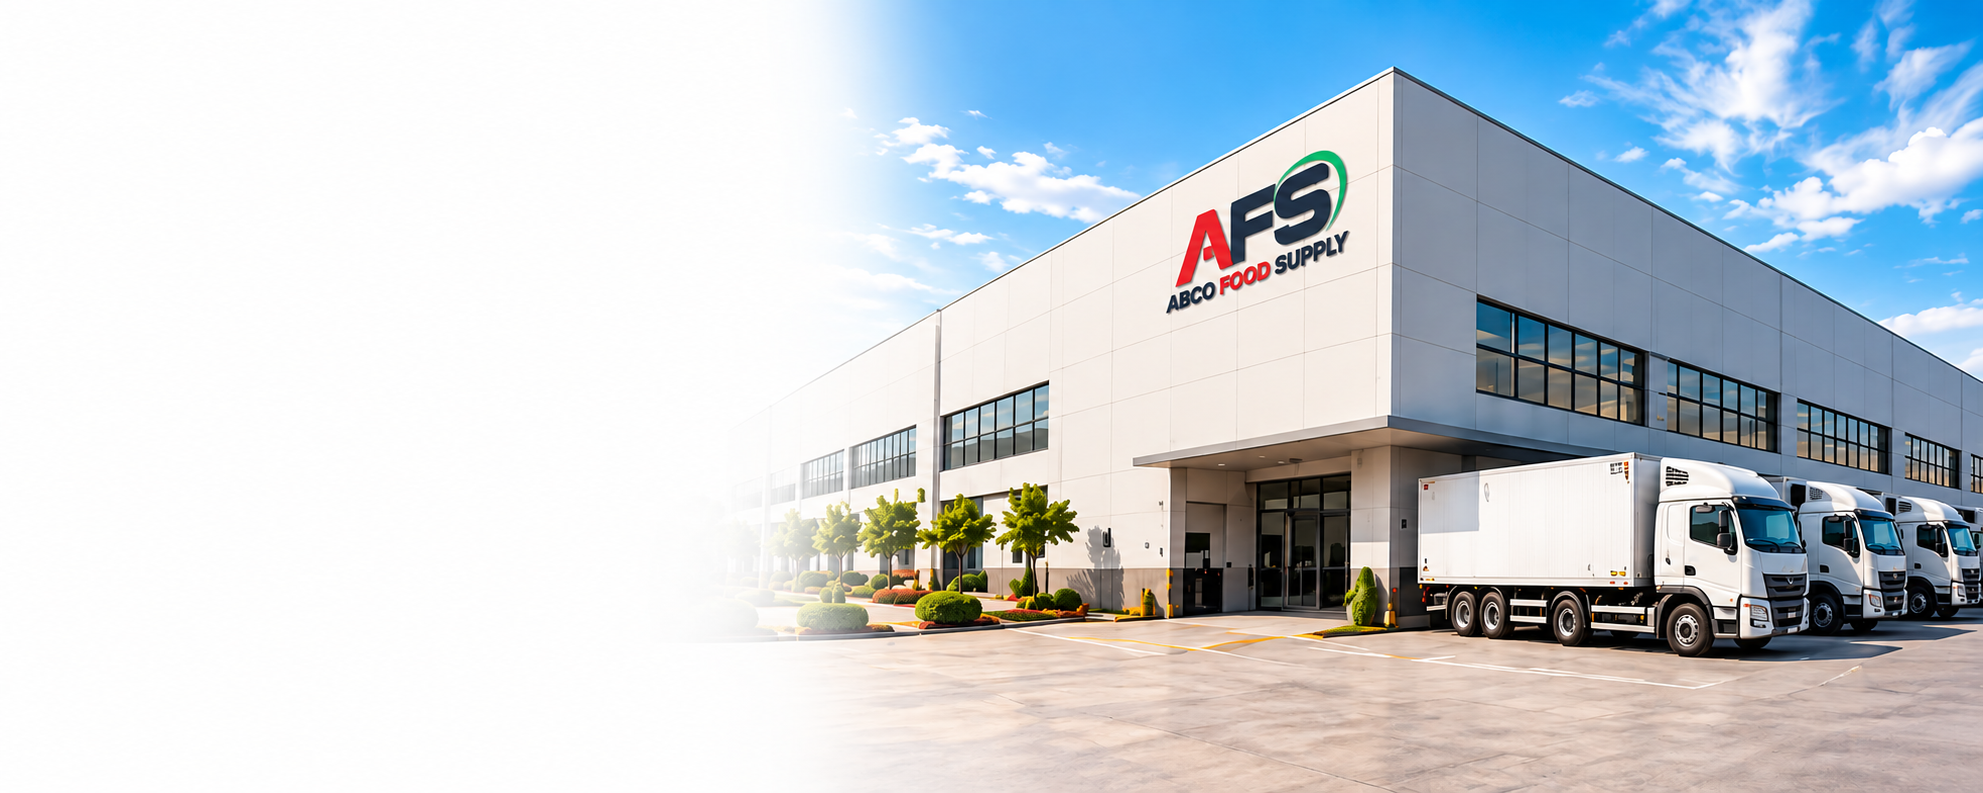
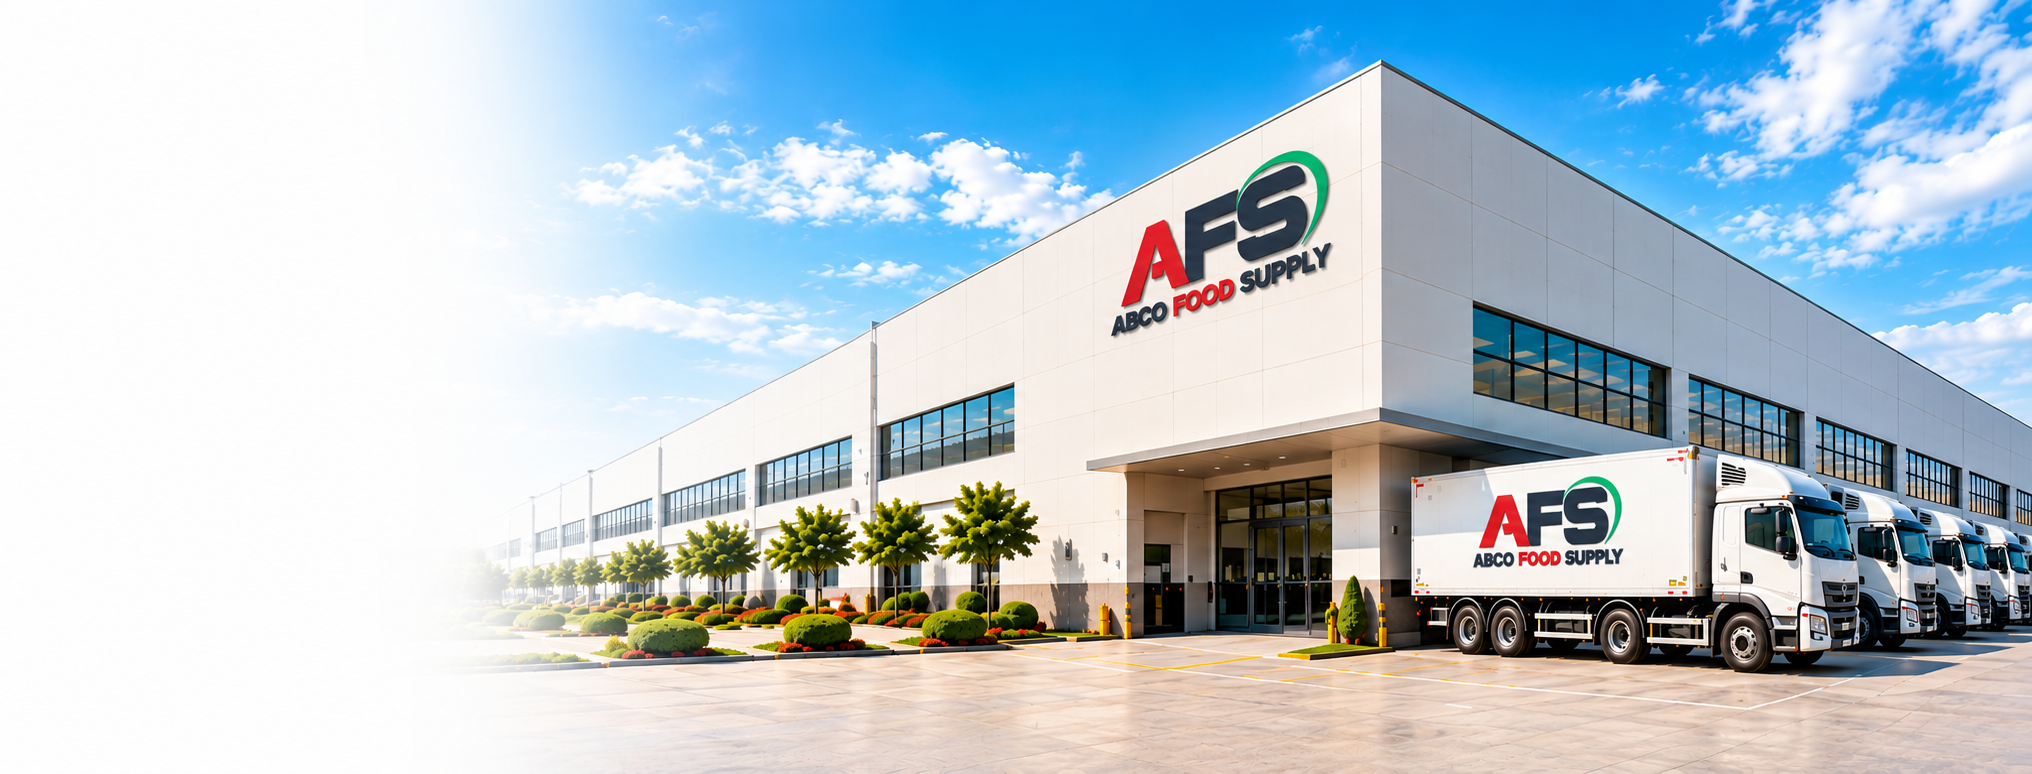
changes into the some data

diff --git a/src/lib/siteSections.ts b/src/lib/siteSections.ts
@@ -48,8 +48,6 @@ export interface SiteSections {
     primaryText: string;
     primaryLink: string;
     secondaryText: string;
-    badgeTitle: string;
-    badgeSubtitle: string;
   };
   // Home page Services header; the cards come from servicesList (items with showOnHome)
   services: { eyebrow: string; title: string; subtitle: string; buttonText: string };
@@ -71,8 +69,10 @@ export interface SiteSections {
   // Site-wide contact details (Admin → Contact & Social); used by every page
   contact: {
     phone: string;
+    phone2: string;
     whatsapp: string;
     email: string;
+    email2: string;
     address: string;
     mapAddress: string;
     hours: string;
@@ -241,13 +241,11 @@ export const SECTION_DEFAULTS: SiteSections = {
     highlights: [
       { icon: "Boxes", label: "Bulk Supply" },
       { icon: "Tag", label: "Best Prices" },
-      { icon: "ShieldCheck", label: "Quality Assured" },
+      { icon: "ShieldCheck", label: "Reliable Delivery" },
     ],
     primaryText: "Shop Now",
     primaryLink: "/products",
     secondaryText: "Request Bulk Quote",
-    badgeTitle: "Reliable Delivery",
-    badgeSubtitle: "Across Saudi Arabia",
   },
   services: {
     eyebrow: "OUR SERVICES",
@@ -276,14 +274,14 @@ export const SECTION_DEFAULTS: SiteSections = {
       tag: "PURPOSE & COMMITMENT",
       title: "Our Mission",
       text:
-        "To deliver premium food products and reliable supply solutions through trusted sourcing, efficient procurement, dependable cold-chain operations, and responsive customer service tailored to the Saudi food economy.",
+        "To deliver quality food products and reliable supply solutions through trusted sourcing, efficient procurement, dependable operations, and responsive customer service.",
       footer: "SFDA & HACCP Quality Compliant",
     },
     vision: {
       tag: "KINGDOM VISION 2030",
       title: "Our Vision",
       text:
-        "To become the most trusted and recognized food trading and supply partner across Saudi Arabia and the wider GCC, strengthening national food security through modern logistics and strategic supplier partnerships.",
+        "To become a trusted and recognized food trading and supply partner across Saudi Arabia and the wider GCC.",
       footer: "Aligned with Saudi Vision 2030",
     },
     valuesTag: "FOUNDATIONAL PILLARS",
@@ -295,6 +293,7 @@ export const SECTION_DEFAULTS: SiteSections = {
       { label: "Customer Focus", desc: "Customized client specifications" },
       { label: "Partnership", desc: "Long-term win-win collaboration" },
       { label: "Continuous Improvement", desc: "Constant technological innovation" },
+      { label: "Customer Focus", desc: "Constant technological advancement and innovation" },
     ],
     valuesFooter: "Commitment to Client Success",
   },
@@ -312,12 +311,14 @@ export const SECTION_DEFAULTS: SiteSections = {
     buttonText: "View Full Gallery",
   },
   contact: {
-    phone: "+966 57 299 5987",
+    phone: "+966 50 699 2667",
+    phone2: "+966 57 299 5987",
     whatsapp: "966572995987",
-    email: "abcofoodsupply@gmail.com",
+    email: "info@abcofoodsupply.com",
+    email2: "bdm@abcofoodsupply.com",
     address: "Jubail Industrial City, KSA",
     mapAddress: "Jubail Industrial City, Saudi Arabia",
-    hours: "Sun – Thu  8:00 AM – 6:00 PM",
+    hours: "Sun – Thu & Sat : 8:00 AM – 8:00 PM",
     hoursNote: "Arabia Standard Time (GMT+3)",
   },
   social: {

diff --git a/src/app/admin/settings/page.tsx b/src/app/admin/settings/page.tsx
@@ -15,8 +15,8 @@ export default function AdminSettingsPage() {
     companyName: "ABCO Food Supply (AFS)",
     crNumber: "2050123456",
     sfdaNumber: "SFDA-FS-2026-9918",
-    email: "abcofoodsupply@gmail.com",
-    phone: "+966 50 123 4567",
+    email: "info@acbofoodsupply.com / bdm@abcofoodsupply.com",
+    phone: "+966 50 699 2667 / +966 57 299 5987",
     address: "Jubail Industrial City, Support Services Area 1, Eastern Province, KSA",
     coldCapacity: "18,500 m³ (-18°C to +4°C)",
     fleetCount: "45 GPS Temperature-Monitored Reefer Units",
@@ -34,8 +34,8 @@ export default function AdminSettingsPage() {
               companyName: json.data.company_name || json.data.companyName || "ABCO Food Supply (AFS)",
               crNumber: json.data.cr_number || json.data.crNumber || "2050123456",
               sfdaNumber: json.data.sfda_number || json.data.sfdaNumber || "SFDA-FS-2026-9918",
-              email: json.data.email || "abcofoodsupply@gmail.com",
-              phone: json.data.phone || "+966 50 123 4567",
+              email: json.data.email || "info@acbofoodsupply.com / bdm@abcofoodsupply.com",
+              phone: json.data.phone || "+966 50 699 2667 / +966 57 299 5987",
               address: json.data.address || "Jubail Industrial City, Support Services Area 1, Eastern Province, KSA",
               coldCapacity: json.data.cold_capacity || json.data.coldCapacity || "18,500 m³ (-18°C to +4°C)",
               fleetCount: json.data.fleet_count || json.data.fleetCount || "45 GPS Temperature-Monitored Reefer Units",
@@ -133,10 +133,10 @@ export default function AdminSettingsPage() {
 
             <div>
               <label className="block text-slate-700 font-bold mb-1.5 text-xs uppercase tracking-wider">
-                Central Inquiries Email
+                Central Inquiries Emails
               </label>
               <input
-                type="email"
+                type="text"
                 value={companySettings.email}
                 onChange={(e) => setCompanySettings({ ...companySettings, email: e.target.value })}
                 className="w-full bg-slate-50 border border-slate-300 rounded-xl p-3 text-slate-900 font-medium focus:outline-none focus:ring-1 focus:ring-brand-red"

diff --git a/src/lib/siteSectionSchemas.ts b/src/lib/siteSectionSchemas.ts
@@ -123,8 +123,6 @@ export const SECTION_SCHEMAS: Record<SectionId, SectionSchema> = {
       { type: "text", key: "primaryText", label: "Red Button Text" },
       { type: "text", key: "primaryLink", label: "Red Button Link", placeholder: "/products" },
       { type: "text", key: "secondaryText", label: "White Button Text", help: "Opens the enquiry form." },
-      { type: "text", key: "badgeTitle", label: "Floating Card – Title" },
-      { type: "text", key: "badgeSubtitle", label: "Floating Card – Subtitle" },
     ],
   },
   services: {
@@ -204,8 +202,10 @@ export const SECTION_SCHEMAS: Record<SectionId, SectionSchema> = {
     description: "Used everywhere on the website: header, footer, contact page, product WhatsApp buttons and the map.",
     fields: [
       { type: "text", key: "phone", label: "Phone Number", placeholder: "+966 5X XXX XXXX", help: "Shown on the site and used for Call buttons." },
+      { type: "text", key: "phone2", label: "Second Phone Number", placeholder: "+966 5X XXX XXXX", help: "Optional. Shown on the Contact page under Headquarters & Depot." },
       { type: "text", key: "whatsapp", label: "WhatsApp Number", placeholder: "9665XXXXXXXX", help: "With country code, digits only. Used by every WhatsApp button." },
       { type: "text", key: "email", label: "Email" },
+      { type: "text", key: "email2", label: "Second Email (Business Development)", help: "Optional. Shown on the Contact page under Headquarters & Depot." },
       { type: "text", key: "address", label: "Address (shown on the site)" },
       {
         type: "text",

diff --git a/src/components/B2BBanner.tsx b/src/components/B2BBanner.tsx
@@ -3,7 +3,7 @@
 import React from "react";
 import Image from "next/image";
 import Link from "next/link";
-import { ArrowRight, Sparkles, Truck, FileText } from "lucide-react";
+import { ArrowRight, Sparkles, FileText } from "lucide-react";
 import { toast } from "sonner";
 import { useSection } from "./SiteSectionsProvider";
 import { getIcon } from "@/lib/iconRegistry";
@@ -117,17 +117,6 @@ export const B2BBanner: React.FC<B2BBannerProps> = ({ onShopNow }) => {
                   className="object-contain drop-shadow-xl"
                   sizes="(max-width: 1024px) 100vw, 50vw"
                 />
-              </div>
-
-              {/* Floating delivery card */}
-              <div className="absolute -bottom-2 left-0 sm:bottom-2 sm:left-2 flex items-center gap-2.5 bg-white rounded-2xl border border-slate-100 shadow-lg px-3 py-2.5 sm:px-4 sm:py-3">
-                <span className="w-9 h-9 sm:w-10 sm:h-10 rounded-xl bg-brand-red text-white flex items-center justify-center shrink-0">
-                  <Truck className="w-4 h-4 sm:w-5 sm:h-5" />
-                </span>
-                <div className="leading-tight">
-                  <p className="text-xs sm:text-sm font-black text-slate-900">{content.badgeTitle}</p>
-                  <p className="text-[11px] sm:text-xs text-slate-500 font-medium">{content.badgeSubtitle}</p>
-                </div>
               </div>
             </div>
           </div>

diff --git a/src/app/contact/page.tsx b/src/app/contact/page.tsx
@@ -436,6 +436,13 @@ export default function ContactPage() {
                           {contact.phone}
                         </a>
                       </p>
+                      {contact.phone2 && (
+                        <p className="text-slate-600">
+                          <a href={`tel:+${phoneDigits(contact.phone2)}`} className="hover:text-brand-red hover:underline">
+                            {contact.phone2}
+                          </a>
+                        </p>
+                      )}
                     </div>
                   </div>
 
@@ -448,9 +455,11 @@ export default function ContactPage() {
                       <p className="text-slate-600">
                         Sales: <a href={`mailto:${contact.email}`} className="text-brand-red hover:underline">{contact.email}</a>
                       </p>
-                      <p className="text-slate-600">
-                        Procurement: <a href={`mailto:${contact.email}`} className="text-brand-red hover:underline">{contact.email}</a>
-                      </p>
+                      {contact.email2 && (
+                        <p className="text-slate-600">
+                          Business Development: <a href={`mailto:${contact.email2}`} className="text-brand-red hover:underline">{contact.email2}</a>
+                        </p>
+                      )}
                     </div>
                   </div>
 

diff --git a/src/app/api/settings/route.ts b/src/app/api/settings/route.ts
@@ -14,9 +14,9 @@ const DEFAULT_SETTINGS = {
   company_name: "ABCO Food Supply (AFS)",
   cr_number: "2050123456",
   sfda_number: "SFDA-FS-2026-9918",
-  email: "abcofoodsupply@gmail.com",
-  phone: "+966 50 123 4567",
-  whatsapp: "+966 50 123 4567",
+  email: "info@acbofoodsupply.com / bdm@abcofoodsupply.com",
+  phone: "+966 50 699 2667 / +966 57 299 5987",
+  whatsapp: "+966 57 299 5987",
   address: "Jubail Industrial City, Support Services Area 1, Eastern Province, KSA",
   cold_capacity: "18,500 m³ (-18°C to +4°C)",
   fleet_count: "45 GPS Temperature-Monitored Reefer Units",

diff --git a/src/lib/supabase.ts b/src/lib/supabase.ts
@@ -3,7 +3,7 @@
  * Connects to Supabase REST and Auth endpoints using credentials from .env.
  */
 
-export const SUPABASE_URL = process.env.NEXT_PUBLIC_SUPABASE_URL || "";
+export const SUPABASE_URL = process.env.NEXT_PUBLIC_SUPABASE_URL || "https://exrgcryuyhkwpqsyciif.supabase.co";
 export const SUPABASE_ANON_KEY = process.env.NEXT_PUBLIC_SUPABASE_ANON_KEY || "";
 export const SUPABASE_SERVICE_KEY = process.env.SUPABASE_SERVICE_ROLE_KEY || "";
 

diff --git a/src/app/api/products/route.ts b/src/app/api/products/route.ts
@@ -1,6 +1,6 @@
 import { NextRequest, NextResponse } from "next/server";
 
-const SUPABASE_URL = process.env.NEXT_PUBLIC_SUPABASE_URL || "";
+const SUPABASE_URL = process.env.NEXT_PUBLIC_SUPABASE_URL || "https://exrgcryuyhkwpqsyciif.supabase.co";
 const SUPABASE_KEY = process.env.SUPABASE_SERVICE_ROLE_KEY || process.env.NEXT_PUBLIC_SUPABASE_ANON_KEY || "";
 
 const headers = () => ({

diff --git a/src/app/api/rfq/route.ts b/src/app/api/rfq/route.ts
@@ -1,6 +1,6 @@
 import { NextRequest, NextResponse } from "next/server";
 
-const SUPABASE_URL = process.env.NEXT_PUBLIC_SUPABASE_URL || "";
+const SUPABASE_URL = process.env.NEXT_PUBLIC_SUPABASE_URL || "https://exrgcryuyhkwpqsyciif.supabase.co";
 const SUPABASE_KEY = process.env.SUPABASE_SERVICE_ROLE_KEY || process.env.NEXT_PUBLIC_SUPABASE_ANON_KEY || "";
 
 const headers = () => ({
